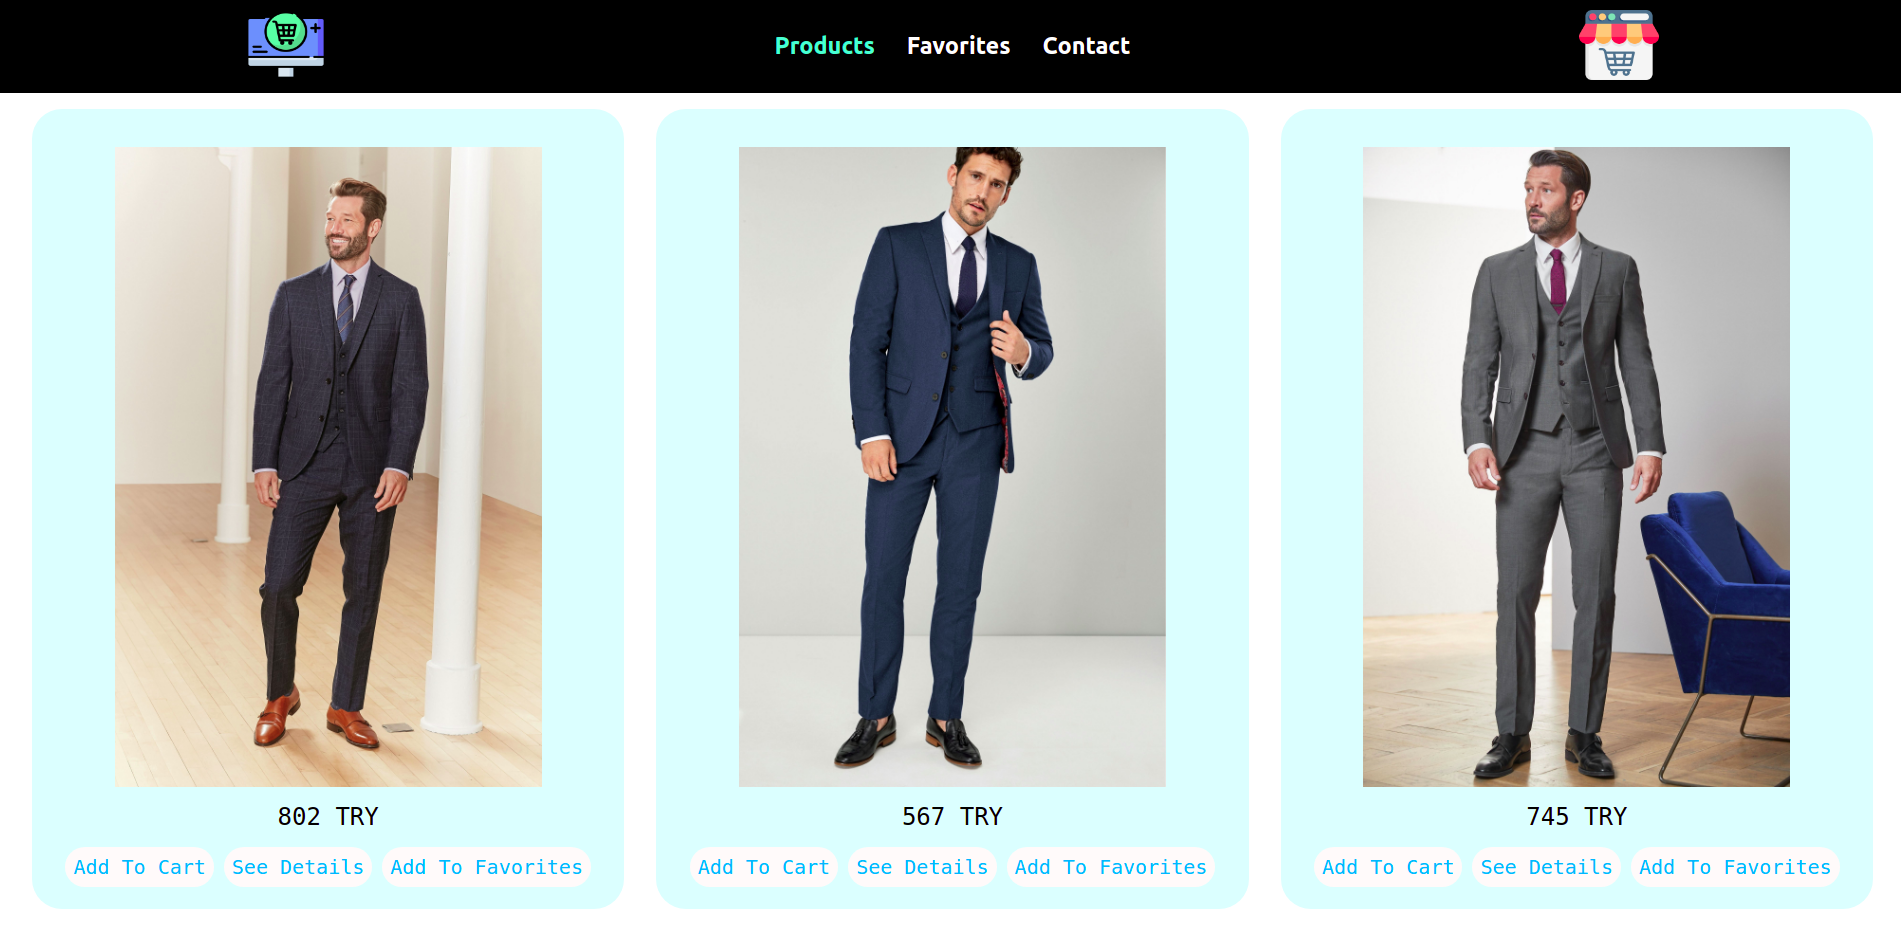
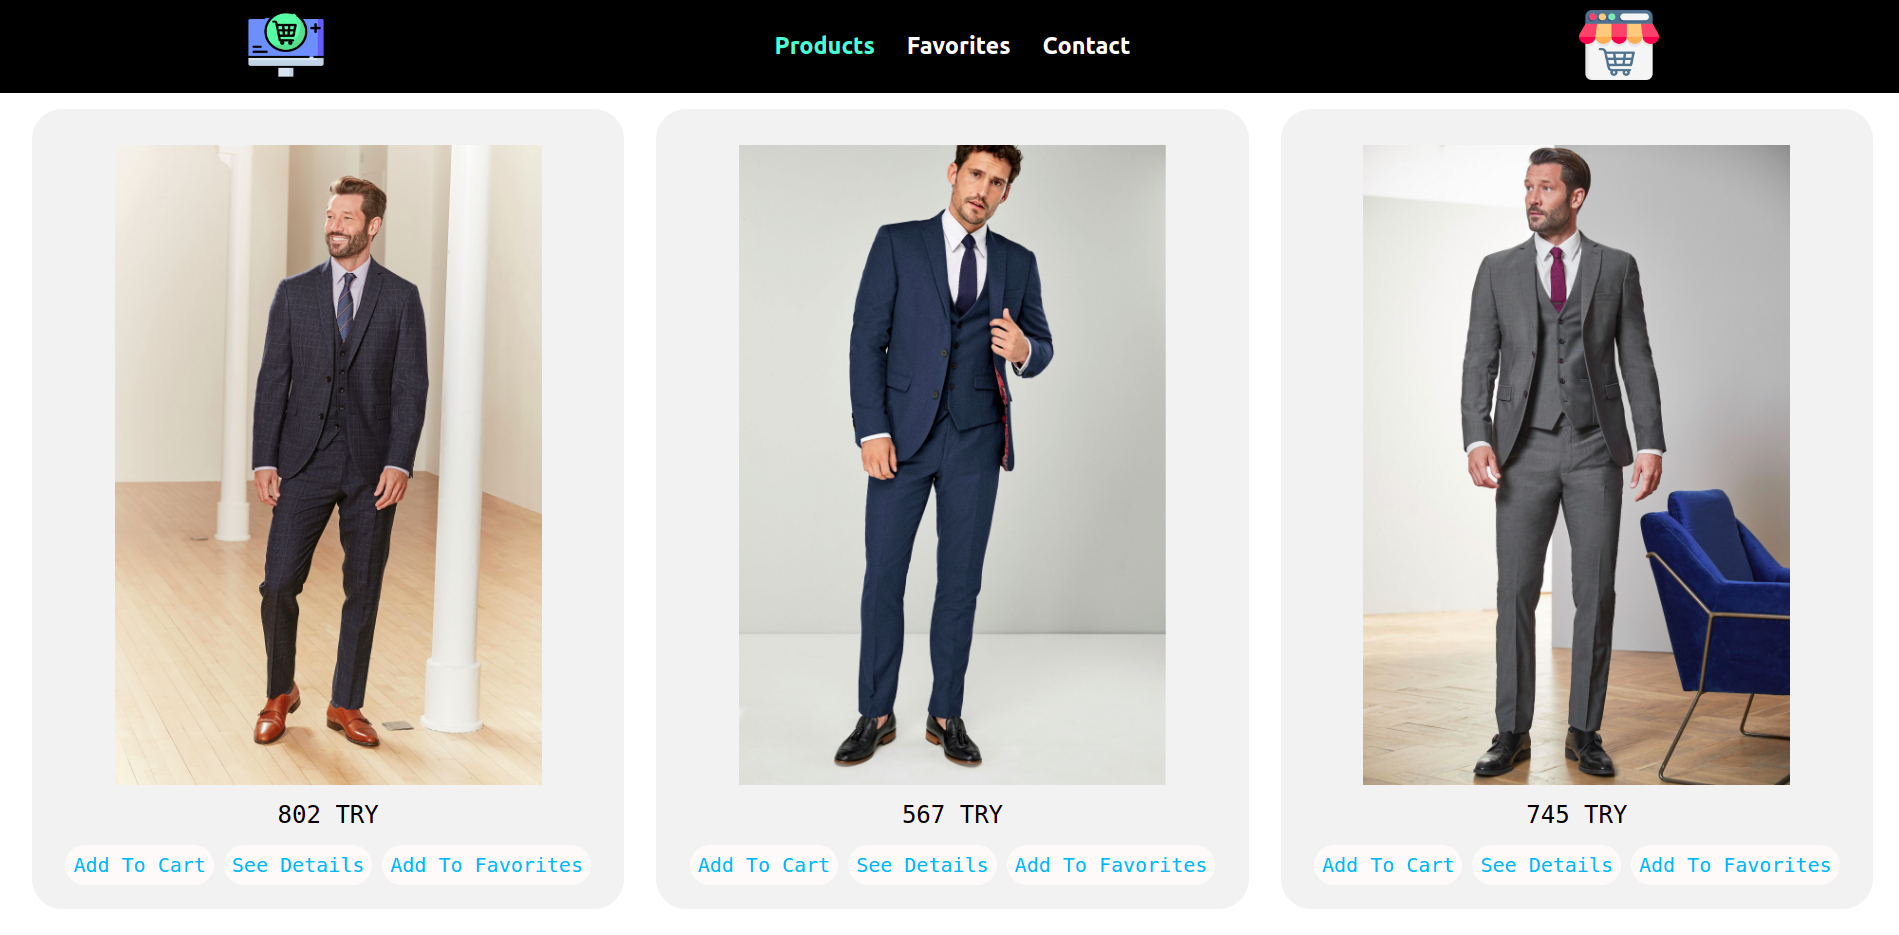
change cards background color to #f2f2f2

diff --git a/src/components/ProductItem.js b/src/components/ProductItem.js
@@ -51,7 +51,7 @@ const ProductCart = styled.div`
   align-items: center;
   flex-direction: column;
   border-radius: 30px;
-  background-color: ${({favorite}) => favorite ? `deepskyblue`: `lightcyan` };
+  background-color: ${({favorite}) => favorite ? `lightcyan`: `#f2f2f2` };
   color: deepskyblue;
 `;
 const ProductImage = styled.img`

diff --git a/src/components/CardItem.js b/src/components/CardItem.js
@@ -90,7 +90,7 @@ const CardBox = styled.div`
   justify-content: space-between;
   align-items: center;
   flex-direction: row;
-  background-color: lightcyan;
+  background-color: #f2f2f2;
   border-radius: 4rem;
   margin: 20px 0px;
   @media screen and (max-width: 425px){

diff --git a/src/components/Loader.js b/src/components/Loader.js
@@ -7,7 +7,7 @@ const Loader = () => {
       speed={2}
       width="100%"
       height="100%"
-      backgroundColor="#5cf0ff"
+      backgroundColor="#f2f2f2"
       foregroundColor="#878787"
     >
       <rect x="5" y="-3" rx="0" ry="0" width="100%" height="100%" />

diff --git a/src/components/DetailItem.js b/src/components/DetailItem.js
@@ -69,7 +69,7 @@ const DetailProductBox = styled.div`
   justify-content: space-evenly ;
   align-items: center;
   flex-direction: row;
-  background-color: lightcyan;
+  background-color: #f2f2f2;
   border-radius: 4rem;
 
  
